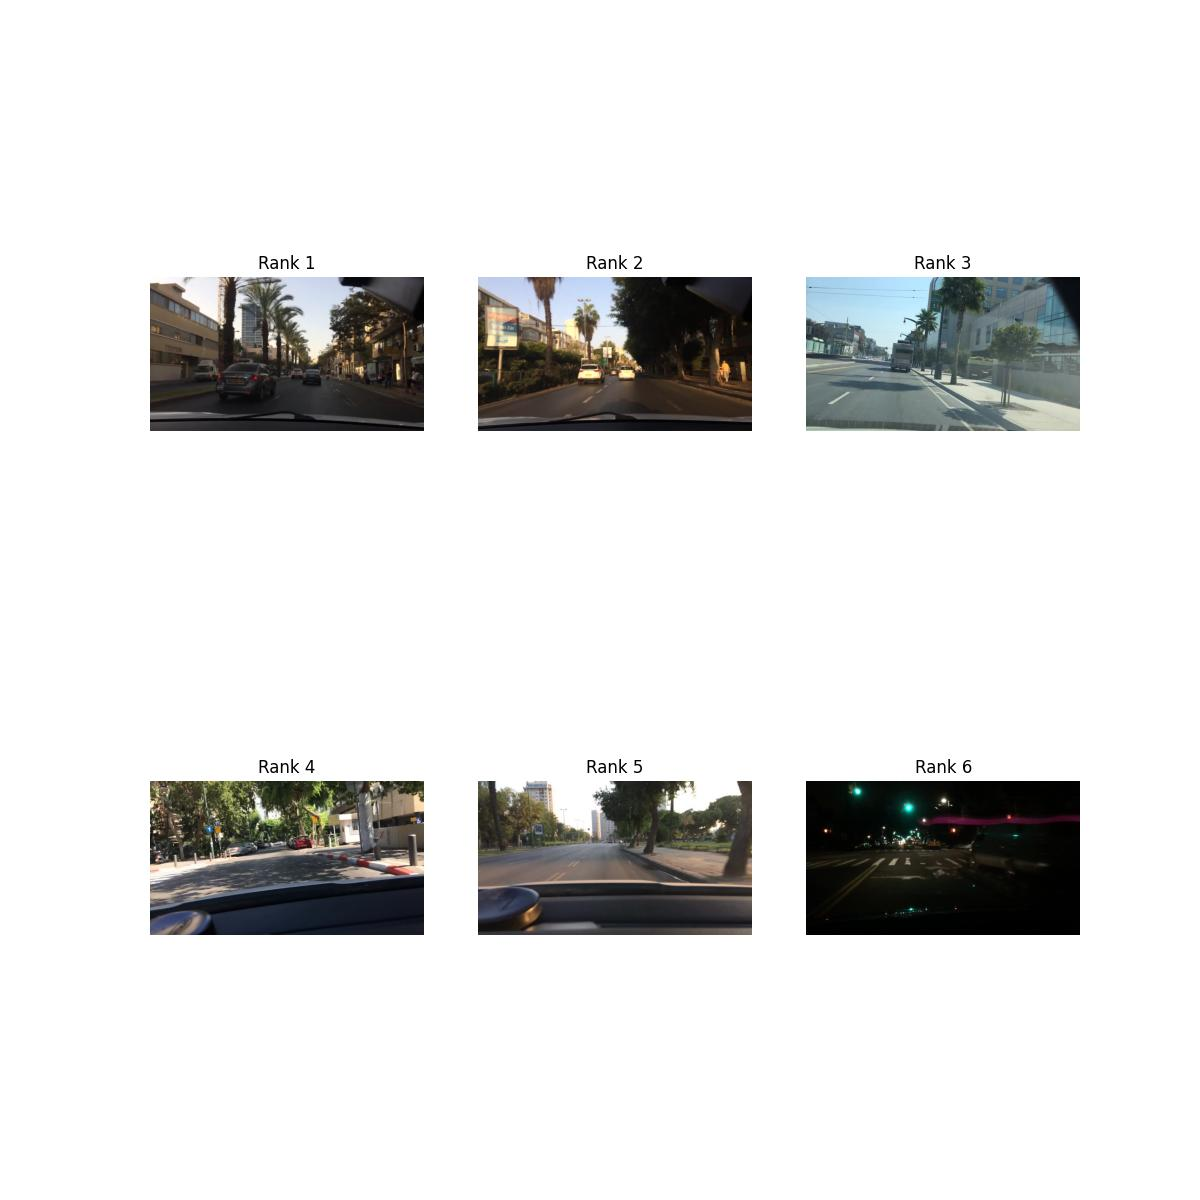
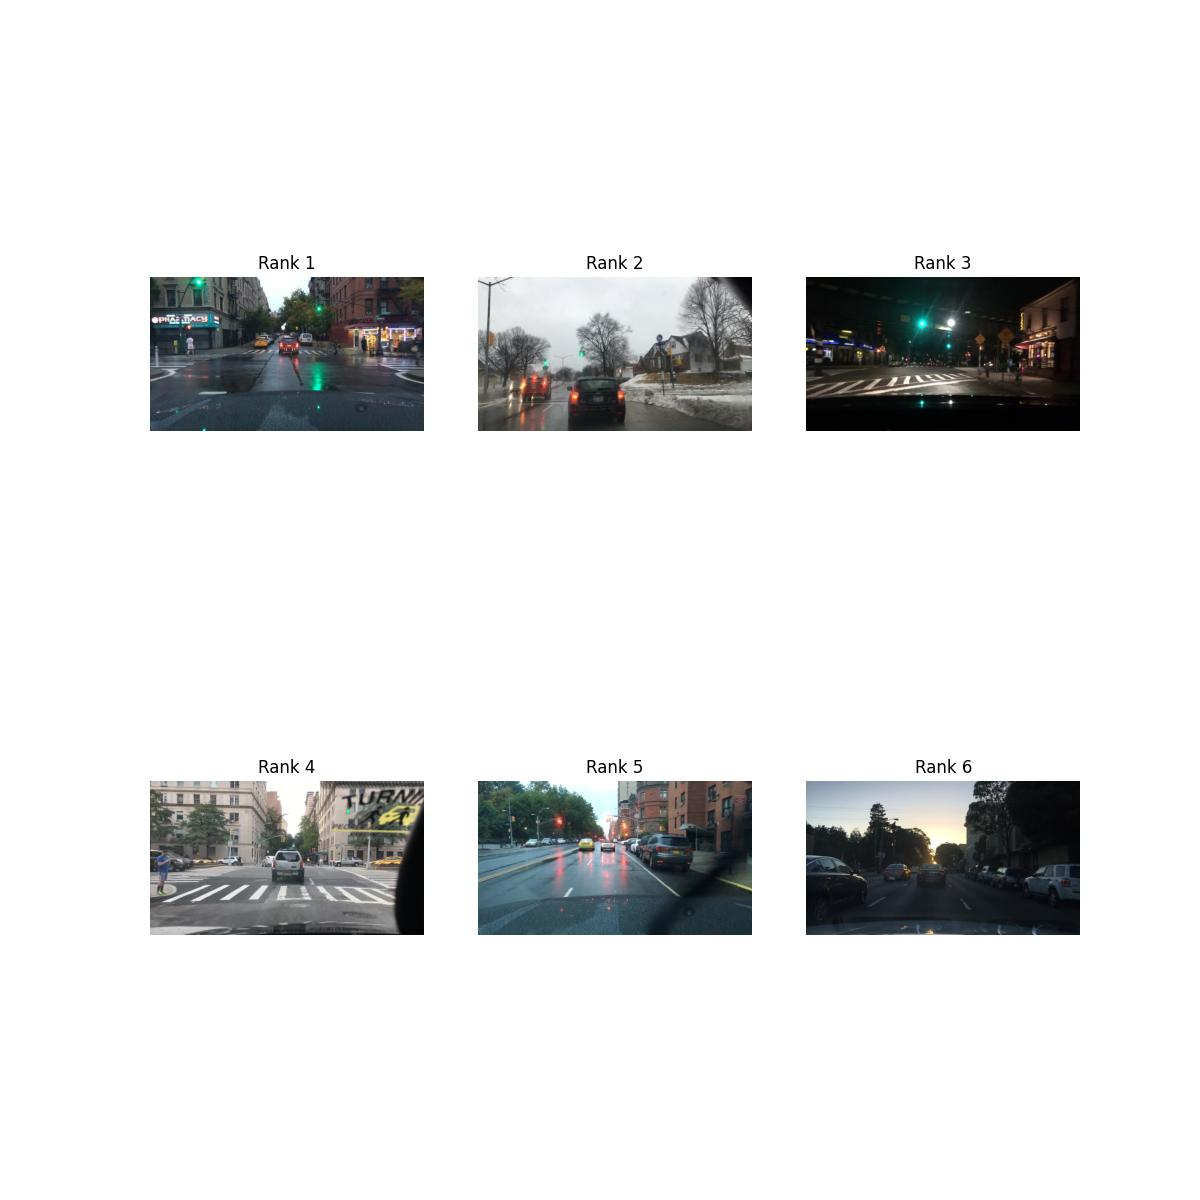
Nearly completed window accuracy metric. Might need some modifications.

diff --git a/main.py b/main.py
@@ -3,6 +3,7 @@ import os
 import numpy as np
 from src.search_representation import search_frames
 from src.visualisiation import visualise_top_images
+from src.metrics import window_accuracy
 
 parser = argparse.ArgumentParser(description="Find the most matching frames to the caption...")
 parser.add_argument("--caption", "-text")
@@ -11,10 +12,23 @@ args = parser.parse_args()
 caption = args.caption
 n_matches = args.matches
 
+def process_caption(caption):
+    if "_" in caption:
+        caption = caption.replace("_", " ")
+    return caption
+
+caption = process_caption(caption)
+
 path = "./utils/data/"
 images = np.array([path + image for image in os.listdir(path)])
 probs = search_frames(images, caption)
 ids = ((-probs).argsort()[:n_matches]).tolist()
+
+tagged_imgs = np.array([image for image in os.listdir(path)])
+tag_path = "/home/efs/datasets/BDD/bdd100k/labels/det_20/det_train.json"
+acc = window_accuracy(tag_path, caption, ids, tagged_imgs)
+print(f"The accuracy of the tag captioning is: {acc:.4f}")
+
 visualise_top_images(images[ids], probs[ids])
 
 

diff --git a/src/metrics.py b/src/metrics.py
@@ -1,0 +1,38 @@
+import numpy as np
+from .structure_data import *
+import time
+
+path = "/home/efs/datasets/BDD/bdd100k/labels/det_20/det_train.json"
+
+def window_accuracy(path, caption, ids, imgs):
+    df = concatenate_tags(path)
+    caption = caption.lower()
+    tp = 0
+    fp = 0
+    tn = 0
+    fn = 0
+
+    imgs_window = imgs[ids]
+    for row in df.iterrows():
+        row = row[1]
+        for img in imgs:
+            if img != row.iloc[0]:
+                continue
+            else:
+                vals = row.iloc[1:].values
+                tags = retrieve_tags(vals)
+
+                if caption in tags and img in imgs_window:
+                    tp += 1
+                elif caption in tags and img not in imgs_window:
+                    fn += 1
+                elif caption not in tags and img in imgs_window:
+                    fp += 1
+                else:
+                    tn += 1
+
+    return (tp + tn)/(tp + tn + fp + fn)
+
+
+
+

diff --git a/src/search_representation.py b/src/search_representation.py
@@ -19,7 +19,7 @@ def latency_wrapper(func):
 @latency_wrapper
 def search_frames(images, caption):
 	device = "cuda" if torch.cuda.is_available() else "cpu"
-	model, preprocess = clip.load("RN101", device=device)
+	model, preprocess = clip.load("ViT-B/16", device=device)
 	images_preprocessed = [preprocess(Image.open(image)).unsqueeze(0).to(device) for image in images]
 	text = clip.tokenize(caption).to(device)
 
@@ -29,6 +29,5 @@ def search_frames(images, caption):
 			logits_img, logits_text = model(img, text)
 			logits.append(logits_img)
 		logits = torch.tensor(logits)
-		#probs = logits.softmax(dim=-1).numpy()
 	return logits
 

diff --git a/src/visualisiation.py b/src/visualisiation.py
@@ -14,5 +14,5 @@ def visualise_top_images(images, scores):
         plt.axis("off")
         plt.title(f"Rank {idx + 1}", fontsize=12)
     plt.savefig("pic.jpg")
-    #plt.show()
+
 
